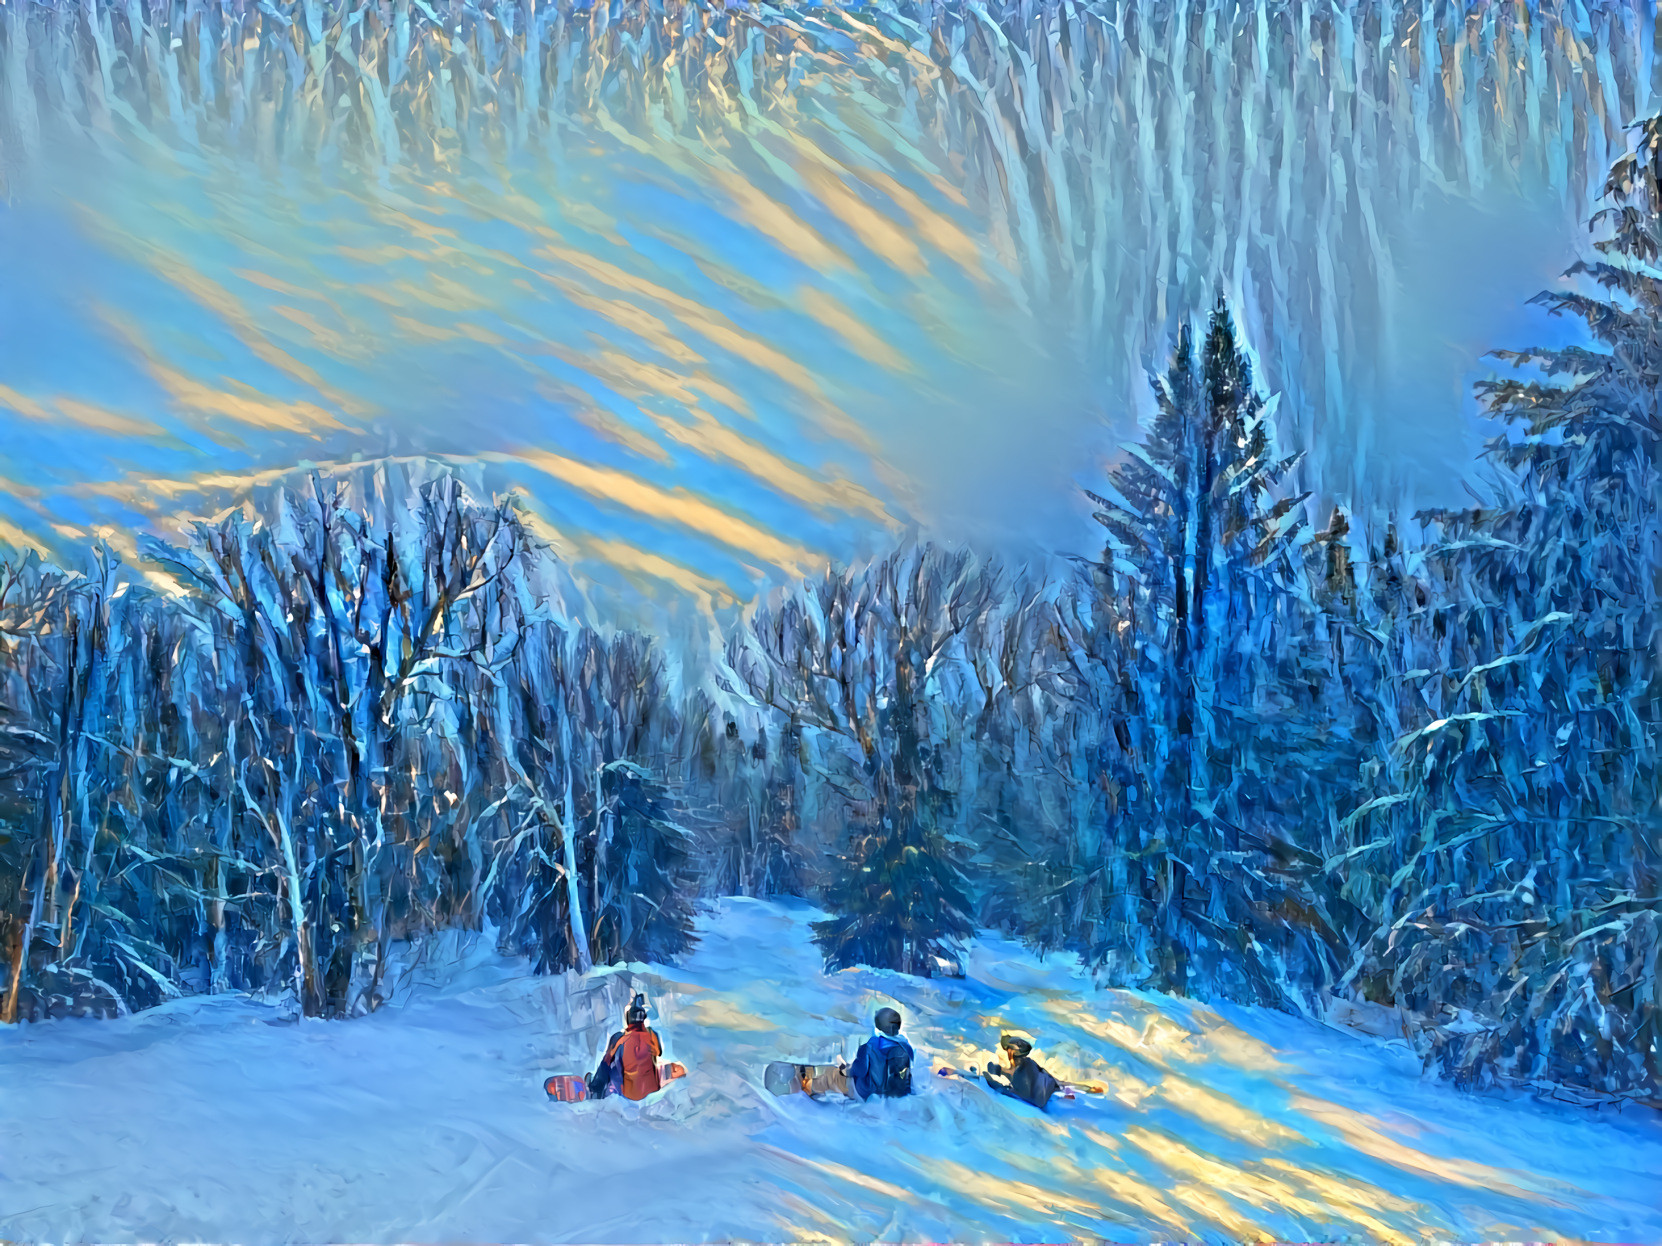
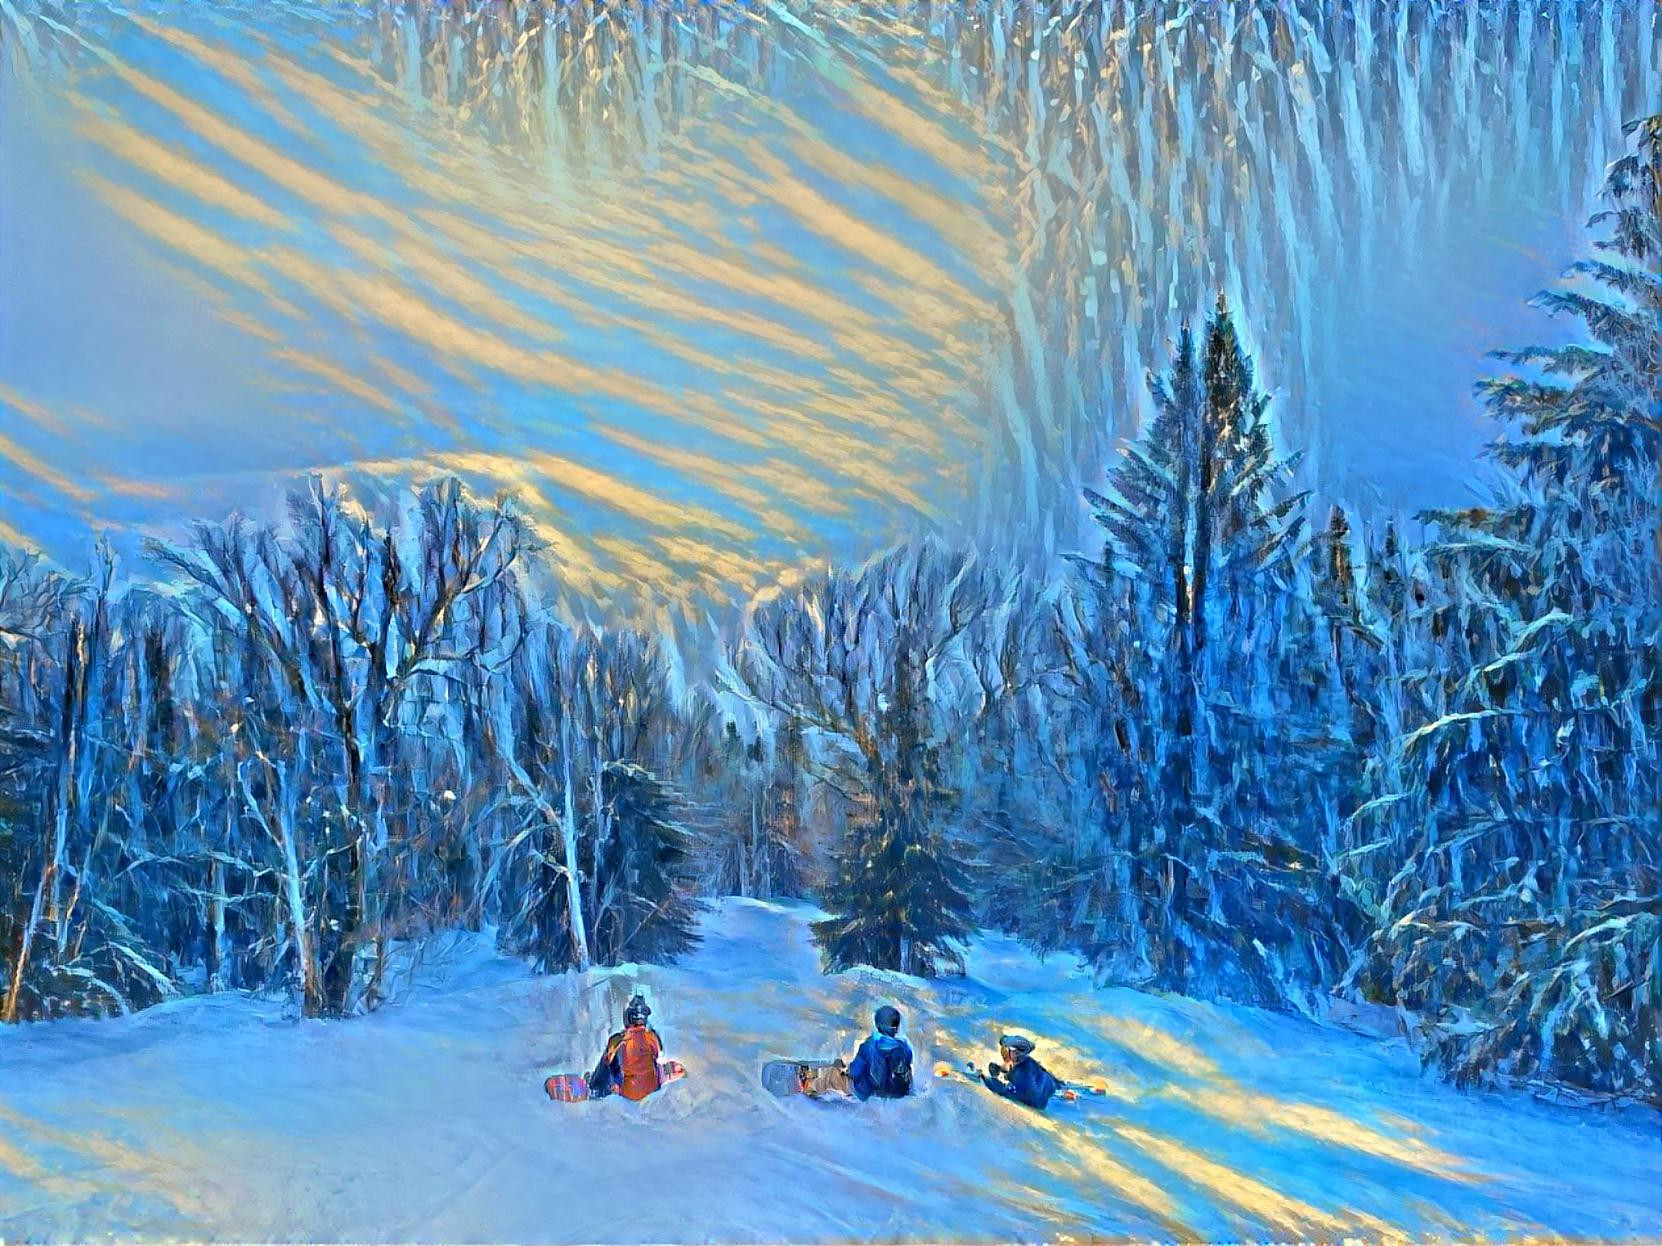
higher quality header img fresh off deepdreamgenerator, updated CSS to position the skiing header text in the same spot as I did on the MTB page and changed about href to skiing because that makes more logical sense me thinks.

diff --git a/index.html b/index.html
@@ -76,7 +76,7 @@
             <a class="nav-link js-scroll-trigger" href="#page-top">Home</a>
           </li>
           <li class="nav-item">
-            <a class="nav-link js-scroll-trigger" href="#about">Skiing</a>
+            <a class="nav-link js-scroll-trigger" href="#skiing">Skiing</a>
           </li>
           <li class="nav-item">
             <a class="nav-link js-scroll-trigger" href="#contact">Contact</a>
@@ -88,18 +88,18 @@
 
   <!--  Intro Section  -->
 	<header class="masthead text-center text-black d-flex">
-    <div class="container my-auto">
+    <div class="container my-auto header-content-pos">
       <div class="row">
         <div class="col-lg-10 mx-auto">
           <h1 class="text-uppercase">
-            <span>Skiing</span>
+            <strong>Skiing</strong>
           </h1>
           <hr class="divider my-4" />
         </div>
         <div class="col-lg-8 mx-auto">
-					<p>A collection of Epic Skiing Photos taken over the 
+					<p class="text-black font-weight-bold">A collection of Epic Skiing Photos taken over the 
 					last couple of years in the Great States of New Hampshire, Vermont and Maine.</p>
-					<a href="#about" class="btn btn-primary btn-xl js-scroll-trigger">View the Photos</a>
+					<a href="#skiing" class="btn btn-primary btn-xl js-scroll-trigger">View the Photos</a>
         </div>
       </div>
     </div>
@@ -111,7 +111,7 @@
 		
       <div class="row">
         <div class="col-lg-12 text-center">
-          <h2 class="section-heading" id="about">Skiing Photos</h2>
+          <h2 class="section-heading" id="skiing">Skiing Photos</h2>
           <hr class="divider light my-4" />
         </div>
       </div>

diff --git a/css/index.css b/css/index.css
@@ -22,6 +22,10 @@
   background-position: bottom;
 }
 
+header .header-content-pos {
+	transform: translateY(-90%)
+}
+
 .text-small {
   font-size: 100%;
 }
